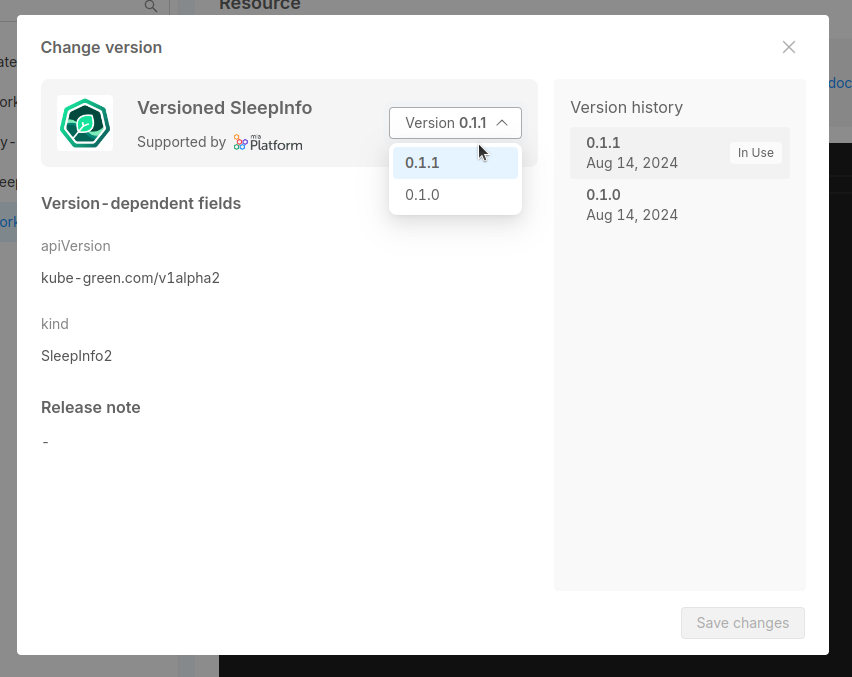
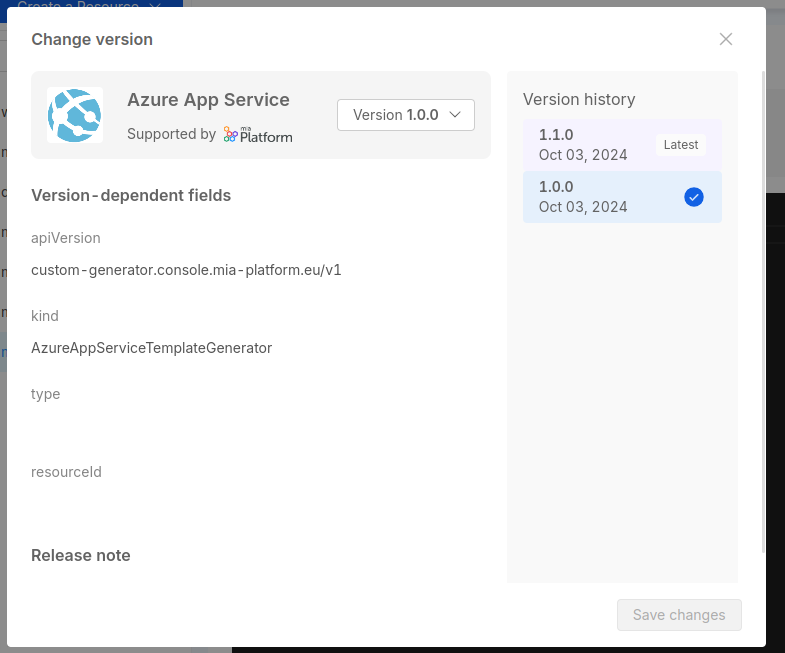
feat: update services and custom-resources page

diff --git a/docs/console/design-your-projects/custom-resources/custom-resources.md b/docs/console/design-your-projects/custom-resources/custom-resources.md
@@ -81,6 +81,8 @@ A modal window will open, where you can see the available versions of the Custom
 
 Inside the modal you can also see the `apiVersion` and the `kind` of the Custom Resource of the selected version, to give you a better idea of the configuration you are selecting.
 
+A small tag will also inform you which is the *latest* version of the plugin, the latest stable version released.
+
 In case you need to update the `apiVersion` and the `kind` fields manually, completely changing the configuration of the Custom Resource, you can do so by clicking the *Detach from Marketplace* button on the menu:this will detach the Custom Resource from the original Marketplace item, causing the resource to be fully editable.
 However, you will not be able to use the Marketplace versioning feature anymore, and you will not be notified by any update made by the Marketplace creator of that item.
 
@@ -89,6 +91,14 @@ A version labelled with *N/A* refers to a Marketplace item that did not include 
 This means that it has been created before the support of versioning in the Marketplace was implemented.
 
 However, it does not mean that this version is not supported anymore, or that it is less secure: check out the available versions and choose the one that fits your needs. In case of further questions, please contact the Marketplace item creator.
+:::
+
+:::info
+If you have the *Marketplace Notifications* [feature preview](/console/project-configuration/project-settings.md#feature-preview) enabled you will be informed in the detail page if one or more of your microservices attached to a Marketplace item have updates with an icon next to the version name.
+
+![Detail of the Resource badge, with the icon to notify a new version available](img/marketplace-notification.png)
+
+This is the best way to be aware of updates of your Marketplace plugins.
 :::
 
 ### Delete a Custom Resource

diff --git a/docs/development_suite/api-console/api-design/services.md b/docs/development_suite/api-console/api-design/services.md
@@ -123,11 +123,22 @@ If the microservice has been created from a versioned Marketplace plugin, the *D
 
 ![Detail of a service generated from a versioned Marketplace plugin](img/versioned-service.png)
 
+:::info
+If you have the *Marketplace Notifications* [feature preview](/console/project-configuration/project-settings.md#feature-preview) enabled you will be informed in the detail page if one or more of your microservices attached to a Marketplace item have updates with an icon next to the version name.
+
+![Detail of the Microservice badge, with the icon to notify a new version available](img/marketplace-notification.png)
+
+This is the best way to be aware of updates of your Marketplace plugins.
+:::
+
 In case you want to manually update the Docker Image Name, you can click on the right-side menu button where a menu will pop-up.
 From there you can either *select a different version* or *detach the microservice from the Marketplace plugin*.
 
 Selecting a different version will open a modal window where all the versions available for that Marketplace plugin will be listed.
+
 You can use this modal window also to get more information about the versions, such as the release note and the Docker Image name referenced, plus also to be aware of versions that are flagged with the *Coming Soon* badge.
+
+A small tag will also inform you which is the *latest* version of the plugin, the latest stable version released.
 
 From there you can select one of the available versions in order to update the Docker Image.
 
